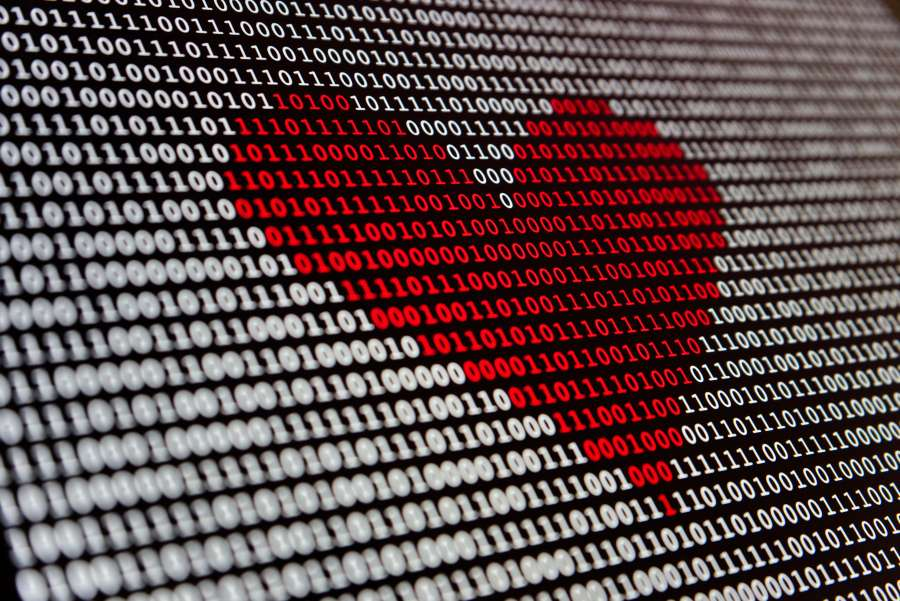
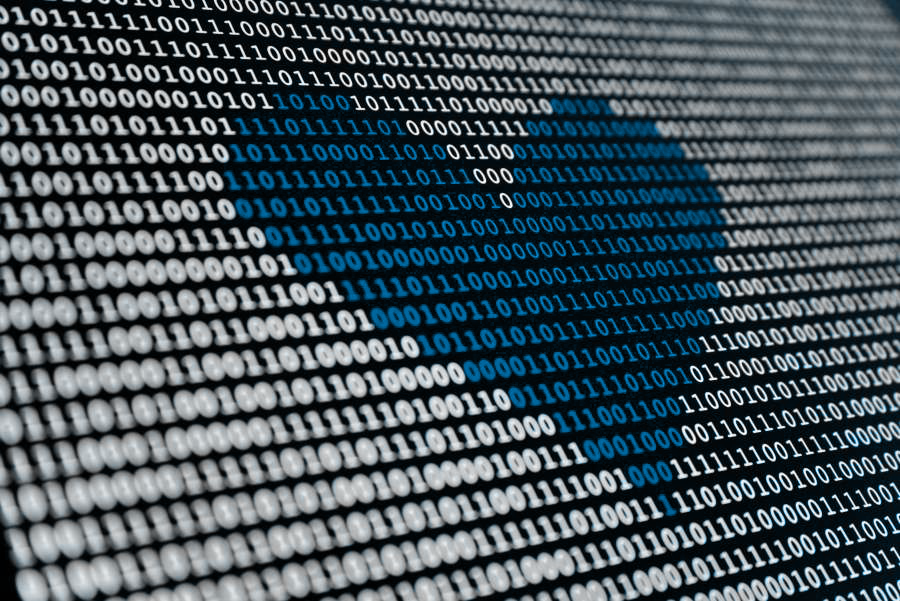
Sajjad: Edit main image...

diff --git a/resources/css/home.css b/resources/css/home.css
@@ -5,12 +5,13 @@
   src: url("../fonts/Lalezar.woff2") format("woff2");
   src: url("../fonts/Lalezar.eot") format("eot");
 }
+
 @font-face {
   font-family: "Dirooz";
-  src: url("../CodeUse-Site/resources/fonts/Dirooz.eot") format("eot");
-  src: url("../CodeUse-Site/resources/fonts/Dirooz.ttf") format("ttf");
-  src: url("../CodeUse-Site/resources/fonts/Dirooz.woff") format("woff");
-  src: url("../CodeUse-Site/resources/fonts/Dirooz.woff2") format("woff2");
+  src: url("../fonts/Dirooz.eot") format("eot");
+  src: url("../fonts/Dirooz.ttf") format("ttf");
+  src: url("../fonts/Dirooz.woff") format("woff");
+  src: url("../fonts/Dirooz.woff2") format("woff2");
 }
 
 /* Css Reset */
@@ -151,11 +152,9 @@ body {
   background: #fafafa;
 }
 
-@media screen and (max-width: 767px) {
-}
+@media screen and (max-width: 767px) {}
 
-@media screen and (min-width: 768px) and (max-width: 1023px) {
-}
+@media screen and (min-width: 768px) and (max-width: 1023px) {}
 
 @media screen and (min-width: 1024px) {
   .hamburger-menu {
@@ -187,7 +186,7 @@ body {
 
   .itemnav:hover {
     color: #315098;
-    font-size: 1.35rem;
+    font-size: 1.3rem;
   }
 
   .navbar {
@@ -209,12 +208,15 @@ body {
     25% {
       margin-top: 2.5rem;
     }
+
     50% {
       margin-top: 2rem;
     }
+
     75% {
       margin-top: 1.5rem;
     }
+
     100% {
       margin-top: 1rem;
     }
@@ -286,22 +288,22 @@ body {
   @keyframes move {
     25% {
       border-radius: 1rem;
-      box-shadow: 2px 5px 20px #00a20b;
+      box-shadow: 2px 5px 20px #007b08;
     }
 
     50% {
-      box-shadow: 2px 5px 20px #315098;
+      box-shadow: 2px 5px 20px #122d6c;
       border-radius: 1rem;
     }
 
     75% {
       border-radius: 1rem;
-      box-shadow: 2px 5px 20px #ff99bb;
+      box-shadow: 2px 5px 20px #6b0036;
     }
 
     100% {
       border-radius: 1rem;
-      box-shadow: 2px 5px 20px #a5ffab;
+      box-shadow: 2px 5px 20px #007e43;
     }
   }
 
@@ -385,15 +387,26 @@ body {
   }
 
   .home-box h6 {
+    transition: all 0.25s ease-in-out;
     color: #315098;
     font-family: Dirooz;
     font-size: 1.75rem;
     text-align: center;
   }
+
+  .home-box a {
+    text-decoration: none;
+  }
+
+  .home-box h6:hover {
+    font-size: 1.85rem;
+    color: #5e6e94;
+  }
+
   .home-box p {
     color: #000;
     font-family: Dirooz;
-    font-size: 1.2rem;
+    font-size: 1.3rem;
     margin: 1rem auto;
     text-align: center;
     line-height: 2rem;
@@ -415,12 +428,12 @@ body {
     margin: 1rem auto;
   }
 
-  .startimg{
+  .startimg {
     width: 30%;
     margin: 1rem;
   }
 
-  .start h6{
+  .start h6 {
     background: #a5c0ff;
     font-family: Lalezar;
     font-size: 1.5rem;
@@ -429,7 +442,16 @@ body {
     border-radius: 1.5rem;
   }
 
-  .icon-header1{
+  .start h6:hover {
+    transition: all 0.25s ease-in-out;
+    background: #c7d1e8;
+  }
+
+  .start a {
+    text-decoration: none;
+  }
+
+  .icon-header1 {
     font-size: 1.8rem;
     margin: auto;
     color: #315098;
@@ -447,6 +469,7 @@ body {
     display: flex;
     justify-content: center;
   }
+
   .price {
     margin: 1rem;
     padding: 1rem;
@@ -461,6 +484,7 @@ body {
     text-align: center;
     line-height: 2rem;
   }
+
   .price p {
     display: flex;
     justify-content: center;
